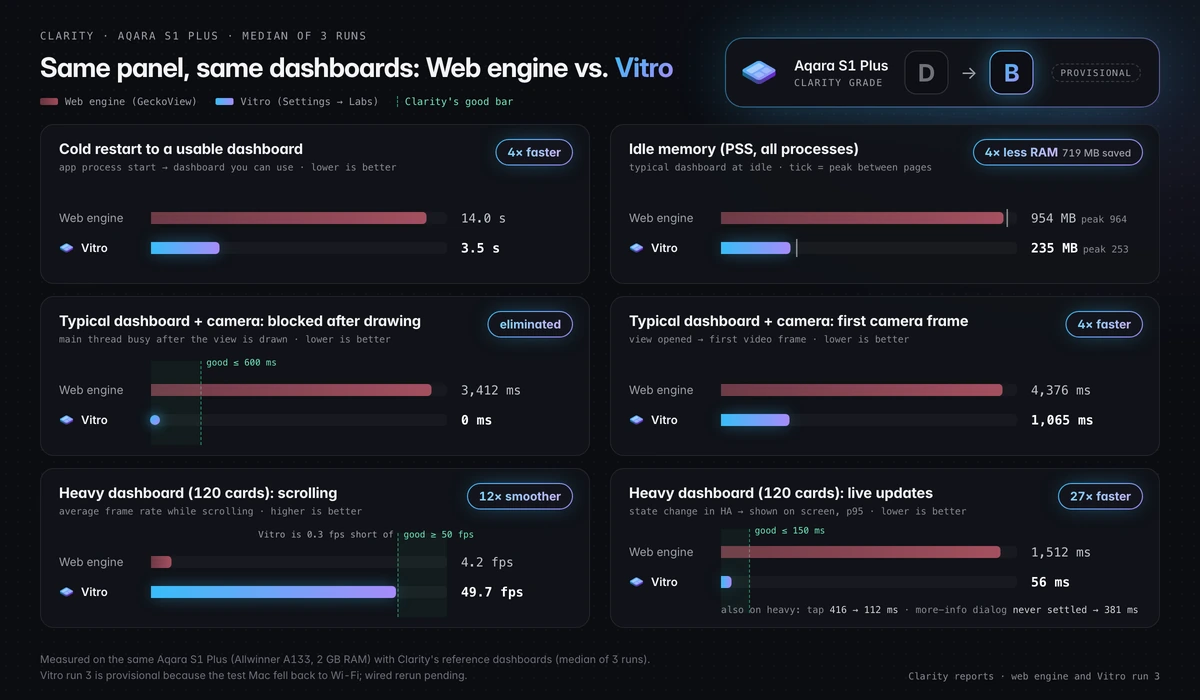
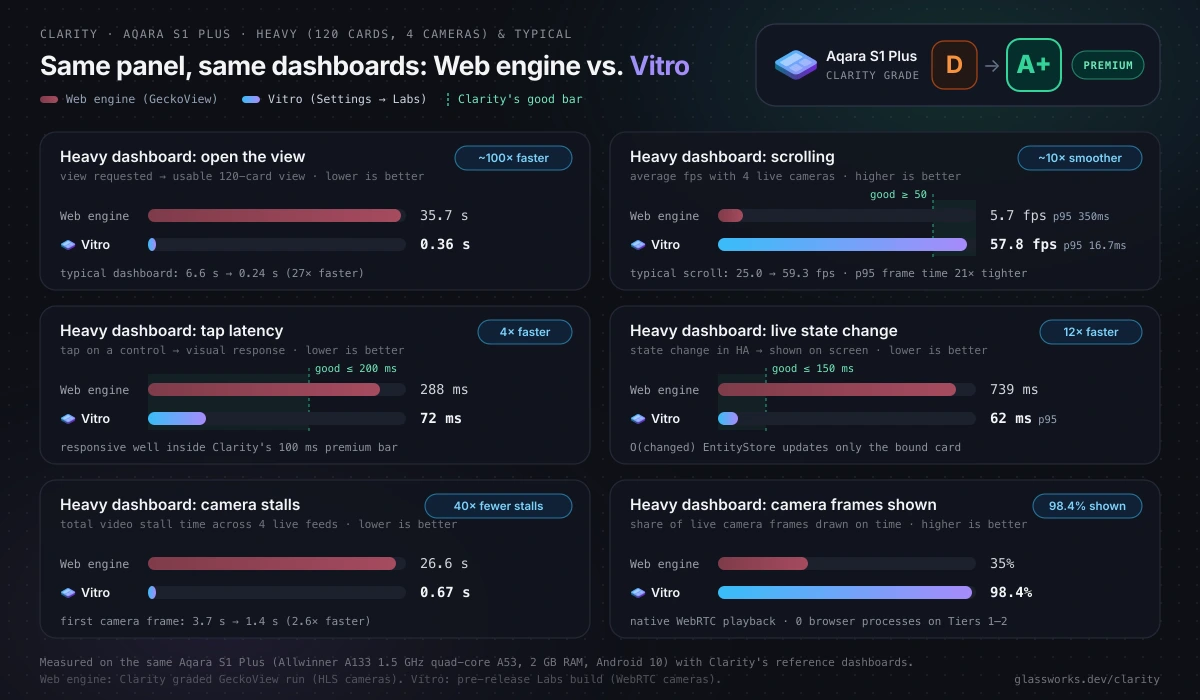
site: reframe Vitro blog draft around D to A+ premium Clarity result

diff --git a/site/blog/2026-12-10-vitro/index.md b/site/blog/2026-12-10-vitro/index.md
@@ -1,18 +1,22 @@
 ---
-title: "Introducing Vitro: why your wall panel shouldn't need a browser"
+title: "Introducing Vitro: how dropping the browser took a $140 wall switch from D to A+"
 date: 2026-12-10
 author: "Eduardo"
-summary: "Every Home Assistant wall panel app has fought the same WebView race. Vitro steps out of that race altogether—reading the Lovelace dashboard you already built and drawing it natively on Android, with zero browser process."
+summary: "When we graded our own flagship wall panel with Clarity, it scored a D. Instead of buying faster hardware, we built Vitro—a native Android renderer for the Home Assistant dashboard you already have—and maxed out our own benchmark on the exact same wall switch."
 cover_alt: "Drop the browser. Keep your dashboard. The Vitro mark and four native Home Assistant cards, above a bar showing 954 MB total app RAM (all processes) on the Aqara S1 Plus web engine against 0 browser processes with Vitro."
 draft: true
 ---
 
 <!--
-Draft. Goes out with Glassworks 1.1, the release Vitro lands in (not 1.0), once #799 is on main
-(which also adds the `/blueprints#vitro-check` compatibility checker referenced below), the wired
-S1 Clarity rerun clears the provisional tag, and the Mirror Vitro run (#796) is in. Text in
-[brackets] waits on #796 and release day. Once `exp/vitro` merges to `main`, update the GitHub
-links to relative repo links (`../../../engines/engine-vitro/README.md`, `../../../docs/vitro.md`,
+Draft. Goes out with Glassworks 1.1, the release Vitro lands in (not 1.0), once #799 and #980 are
+on main (which also adds the `/blueprints#vitro-check` compatibility checker referenced below) and
+the official post-#980 S1, Pixel Tablet, and Mirror (#796) Vitro Clarity runs finish.
+Current S1 Vitro numbers below come from run 19 on the #980 test build (WebRTC cameras) compared
+against the committed s1cam3 GeckoView run (HLS cameras); swap in the official same-branch S1
+re-grade + RAM numbers (and Mirror/tablet numbers) and regenerate performance-comparison.webp if
+any digit shifts before publishing.
+Text in [brackets] waits on release day. Once `exp/vitro` merges to `main`, update the GitHub links
+to relative repo links (`../../../engines/engine-vitro/README.md`, `../../../docs/vitro.md`,
 `../../../docs/engine-contract.md`, `../../../docs/research/vitro-island-census.md`).
 -->
 
@@ -20,28 +24,32 @@ For years, every Home Assistant wall panel app has been running the same race: w
 
 Some apps are really good at that. If you mount a recent flagship tablet on the wall and want a feature-packed WebView app, you already have great options.
 
-**We aren't fighting that race.**
+**We stepped out of that race altogether.**
 
-The moment you put Home Assistant on *real* wall hardware—a light-switch panel like the Aqara S1 Plus, an Android 6 smart mirror with under 1 GB of RAM, or the ten-year-old tablet in your drawer—wrapping a desktop browser around a modern JavaScript frontend hits a wall. When we published [Clarity](https://www.glassworks.dev/blog/clarity), our own S1 Plus scored a **D** and the lululemon Studio Mirror scored an **E**. On the S1, Glassworks on the web engine ate **954 MB of RAM across all processes** at idle and pegged the main thread just to keep a typical dashboard alive.
+When we introduced [Clarity](https://www.glassworks.dev/blog/clarity)—our open performance benchmark for Home Assistant wall panels—we graded our own flagship panel first. On the web engine, the Aqara Panel Hub S1 Plus scored a **D**. It is a 32-bit, quad-core Cortex-A53 light switch with 2 GB of RAM running Android 10, and keeping a modern JavaScript frontend alive on it ate **954 MB of RAM across all processes** at idle. Throw our 120-card, four-camera heavy dashboard at it, and the view took **35.7 seconds** just to open and scrolled at **5.7 frames per second**. The lululemon Studio Mirror, with 930 MB of RAM on Android 6, scored an **E** and ran out of memory on the heavy dashboard altogether.
 
-In **Glassworks 1.1** [link to the release], we're introducing **Vitro** under **Settings → Labs**: a native Android rendering engine for the Home Assistant dashboard you already built. No browser process. No custom Home Assistant integration. No rebuilding your dashboard in someone else's editor. On the exact same Aqara S1 Plus, it drops idle memory from **954 MB to 235 MB**, cuts cold restarts from **14 seconds to 3.5**, and moves the panel from Clarity **D** to a provisional **B**.
+That honest **D** forced the only question that mattered: was the hardware really too slow to run a smart home dashboard, or was a desktop browser engine just the wrong thing to put on a light switch?
+
+In **Glassworks 1.1** [link to the release], we are introducing **Vitro** under **Settings → Labs**: a native Android rendering engine for the Home Assistant dashboard you already built. No browser process, no custom Home Assistant integration, and no rebuilding your screens in someone else's editor.
+
+On the exact same Aqara S1 Plus and the exact same benchmark, Vitro did not just lift the panel a letter grade. It maxed out Clarity's grading scale—moving the S1 Plus from **D** to **A+ premium**, opening that 120-card heavy view in **0.36 seconds** (~100× faster) and scrolling it at **57.8 frames per second** with four live WebRTC cameras running.
 
 ## No more choosing between fast and yours
 
 Until now, putting Home Assistant on a wall meant picking between two compromises:
 
-1. **Browser / WebView kiosk apps:** Full compatibility with your Lovelace dashboards, at the cost of dragging a 500–950 MB browser engine onto a light switch—slow cold starts, janky scrolls, memory pressure, and broken stock WebViews on older Android hardware.
-2. **"Native" panel apps and microcontroller screens:** Fast and lean, but they throw away your Home Assistant dashboards and force you to rebuild every screen inside their own editor or custom YAML format.
+1. **Browser and WebView kiosk apps:** Full compatibility with your Lovelace dashboards, at the cost of dragging a 500–950 MB browser engine onto a light switch—slow cold starts, janky scrolls, memory pressure, and outdated system WebViews on older Android hardware.
+2. **"Native" panel apps and microcontroller screens:** Fast and lean, at the cost of throwing away your Home Assistant dashboards and rebuilding every screen inside a separate editor or custom YAML format.
 
-Vitro doesn't make you choose. It connects straight to Home Assistant's WebSocket API in Kotlin, reads the Lovelace dashboard you already have—layouts, themes, fonts, templates, and history—and draws it natively with Android views and Canvas.
+Vitro removes that tradeoff. It connects straight to Home Assistant's WebSocket API in Kotlin, reads the Lovelace dashboard you already have—layouts, themes, custom fonts, templates, and history—and draws it natively with Android views and Canvas.
 
-Your dashboard stays in Home Assistant. Nothing gets installed there ([the principles](../../../docs/principles.md)). The only thing that disappears is the browser sitting between Home Assistant and the glass.
+Your dashboard stays in Home Assistant, and nothing gets installed there ([the principles](../../../docs/principles.md)). The only layer that disappears is the browser sitting between Home Assistant and the glass.
 
-[Your own aha moment in 2–3 lines: e.g., watching the Mirror come alive on Android 6, or seeing your real dashboard render identically with zero GeckoView processes in `ps`.]
+[Your own aha moment in 2–3 lines: e.g., watching the S1 Plus jump from a 5.7 fps slide show to locked 58 fps with four live cameras, or seeing your real dashboard render identically with zero GeckoView processes in `ps`.]
 
 ## How Vitro works: three automatic tiers
 
-Pulling this off on real dashboards means accepting reality: Home Assistant's ecosystem is huge, and plenty of dashboards mix core cards, HACS favorites, and one or two exotic custom cards. Vitro handles that automatically with three tiers:
+Pulling this off on real dashboards means accepting reality: Home Assistant's ecosystem is huge, and plenty of setups mix core cards, HACS favorites, and one or two exotic custom cards. Vitro handles that automatically with three tiers:
 
 ![Diagram: five cards from a Lovelace dashboard pass through Vitro's Kotlin data plane (view-scoped subscribe_entities, O(changed) EntityStore, themes and fonts, tier routing) to Tier 1 native core (tile, camera), Tier 2 native HACS (Mushroom, button-card) or a Tier 3 GeckoView micro-island (apexcharts-card)](./architecture.webp)
 
@@ -49,39 +57,39 @@ Pulling this off on real dashboards means accepting reality: Home Assistant's ec
 |---|---|---|
 | **Tier 1: Native core** | Layouts (`sections`, `masonry`, `panel`, `grid`, stacks, `visibility`), **32 built-in Home Assistant cards**, native More-Info dialogs, native **WebRTC / HLS / MJPEG** cameras, 14 inline tile features, themes, custom fonts, and all **7,447 MDI icons** | Native Android views and Canvas: zero JavaScript and zero browser process |
 | **Tier 2: Native HACS fast-paths** | **30 popular HACS cards**: the entire Mushroom suite (16 cards), `custom:button-card` (standard configs without JS templates), Bubble Card, `mini-graph-card`, `mini-media-player`, `clock-weather-card`, `modern-circular-gauge`, `bar-card`, `weather-card`, `swipe-card`, `auto-entities`, `stack-in-card`, `vertical-stack-in-card`, and `layout-card` | Native Kotlin renderers, using Home Assistant's own `render_template` subscriptions for Jinja2 |
-| **Tier 3: Micro-Islands** | Any other `custom:*` card, JS-templated custom cards, or any custom card using CSS/options Vitro can't match faithfully | A tiny isolated GeckoView micro-island served from loopback (`127.0.0.1`) with a `hass` proxy shim, shared storage, and your resolved theme variables |
+| **Tier 3: Micro-Islands** | Any other `custom:*` card, JS-templated custom cards, or any custom card using CSS or options Vitro can't match faithfully | A tiny isolated GeckoView micro-island served from loopback (`127.0.0.1`) with a `hass` proxy shim, shared storage, and your resolved theme variables |
 
-Two architectural decisions make this work in the real world:
+Two architectural decisions make this hold up on real panels:
 
-- **Zero browser until a card actually needs one.** If your dashboard stays in Tier 1 and Tier 2, **GeckoView never even starts**. No tab process, no browser GPU process, no JavaScript runtime eating your panel's RAM.
-- **Zero dependence on Android's system WebView.** Even when a card drops into a Tier 3 island, Vitro never touches `android.webkit.WebView` (which is dead or stuck on Chromium 74 on devices like the S1 Plus and Mirror). Only that single card pays for a micro-island, and because Vitro passes your resolved theme variables into it, it blends seamlessly into the native cards around it.
+- **Zero browser until a card actually needs one.** If your dashboard stays in Tier 1 and Tier 2, **GeckoView never even starts**. There is no tab process, no browser GPU process, and no JavaScript runtime consuming your panel's RAM.
+- **Zero dependence on Android's system WebView.** Even when a card drops into a Tier 3 island, Vitro never touches `android.webkit.WebView`, which is missing or frozen on ancient Chromium builds on hardware like the S1 Plus and the Mirror. Only that single card pays for a micro-island, and because Vitro passes your resolved theme variables into it, it blends seamlessly into the native cards around it.
 
-And the small interactions stay native too. Tapping or holding a tile opens native More-Info dialogs modeled after Home Assistant—an HSV color wheel and Kelvin picker for lights, a circular thermostat dial, a cover position slider, a 24-hour stepped sensor graph, live camera playback (up to four WebRTC feeds at once), and an alarm PIN pad. Themes resolve recursive `var(--...)` chains, gradients, and shadows natively, and custom `@font-face` / Google Fonts stylesheets from your Lovelace resources are fetched and cached right on the panel.
+The smaller interactions stay native too. Tapping or holding a tile opens native More-Info dialogs modeled after Home Assistant: an HSV color wheel and Kelvin picker for lights, a circular thermostat dial, a cover position slider, a 24-hour stepped sensor graph, live camera playback (up to four WebRTC feeds at once), and an alarm PIN pad. Themes resolve recursive `var(--...)` chains, gradients, and shadows natively, and custom `@font-face` and Google Fonts stylesheets from your Lovelace resources are fetched and cached right on the panel.
 
 ## "Home Assistant's own render is the spec"
 
-The reason nobody has pulled off a general native Lovelace renderer before isn't that drawing a toggle button is hard. It's that **85% visual parity feels broken**. If padding is off, a Markdown table collapses, or your `card_mod` sheet behaves differently than in Chrome, you immediately stop trusting it.
+The reason nobody has pulled off a general native Lovelace renderer before isn't that drawing a toggle button is hard. It's that **85% visual parity feels broken**. If padding is off, a Markdown table collapses, or a `card_mod` sheet behaves differently than it does in Chrome, you stop trusting the panel immediately.
 
 So we set one non-negotiable rule: **Home Assistant's own browser render is the spec.**
 
-- If Home Assistant draws a card, graph, font, or supported `card_mod` sheet a certain way, Vitro matches it closely enough that you can't tell them apart at a glance.
-- If Home Assistant drops something—like inline `style=` attributes in Markdown—Vitro drops it too, so you never build a dashboard that only looks right in Vitro.
-- If a custom card uses something Vitro can't draw faithfully, Vitro **refuses to fake it** and routes that card to a Tier 3 island instead.
+- If Home Assistant draws a card, graph, font, or supported `card_mod` rule a certain way, Vitro matches it closely enough that you can't tell them apart at a glance.
+- If Home Assistant strips something—like inline `style=` attributes in Markdown—Vitro strips it too, so you never build a dashboard that only looks right on one engine.
+- If a custom card uses something Vitro can't draw faithfully, Vitro refuses to fake it and routes that card to a Tier 3 micro-island instead.
 
-We don't eyeball that bar. Every pull request runs an automated **visual parity harness** (`tools/vitro-parity`) in CI: **135 card and layout cases** rendered twice—once in headless Chromium running Home Assistant's real frontend, and once in Vitro at the exact screen sizes and densities of the S1 Plus, the Mirror, and a tablet. It diffs every case on pixels, card bounds, and font sizes. If a card drifts past its threshold, CI fails.
+We don't eyeball that bar. Every pull request runs an automated **visual parity harness** (`tools/vitro-parity`) in CI: **135 card and layout cases** rendered twice—once in headless Chromium running Home Assistant's real frontend, and once in Vitro at the exact screen sizes and densities of the S1 Plus, the Mirror, and a tablet. It diffs every case on pixels, card bounds, and font sizes, and fails CI whenever a card drifts.
 
 <!-- [Add side-by-side screenshot here: Home Assistant in Chrome (left) vs. Vitro on the lululemon Mirror or Aqara S1 Plus (right). Caption: "Try telling which side is Chrome and which side is native Android."] -->
 
-## What changed on real hardware
+## From D to A+ premium on the exact same wall switch
 
-Owning the rendering pipeline also let us fix three things that punish low-power panels in a browser:
+Dropping GeckoView got us most of the way there, because it wiped out the browser's RAM overhead and JavaScript main-thread stalls. Reaching **A+ premium** on a 1.5 GHz quad-core Cortex-A53 with 120 cards and four live cameras took owning the whole rendering pipeline end to end:
 
-- **View-scoped subscriptions:** Vitro scans the active view and subscribes only to the entities actually on screen.
-- **O(changed) updates:** When one sensor ticks, `EntityStore` updates only the card bound to it—never cloning `hass.states` across a whole DOM tree.
-- **Keep-alive view cache:** Switching tabs flips visibility on pre-built native views instead of tearing down and rebuilding cards from scratch.
+- **View-scoped subscriptions and `O(changed)` updates:** Vitro subscribes only to the entities on the active view, and when one sensor ticks, `EntityStore` updates only the card bound to it instead of propagating a full state map through a DOM tree.
+- **Keep-alive view cache:** Switching dashboard tabs flips visibility on pre-built native views rather than tearing down and rebuilding cards from scratch.
+- **Viewport culling on long dashboards:** On a 120-card view spanning 17 screens, Android's `RenderThread` used to spend most of each frame walking render nodes for cards far off screen. Vitro skips off-screen cards in each column's draw pass while keeping layout heights and camera surfaces intact, catching up any queued state updates before a card scrolls back into view.
+- **Corner-only card clipping and local relayouts:** Rounded cards skip expensive hardware outline clipping when their content never reaches the rounded corners, and live text updates on entity, sensor, and glance cards lay out only themselves instead of invalidating the whole dashboard.
 
-Clarity now grades Vitro under the **exact same rubric and reference dashboards** as the web
-engine—same fake Home Assistant, same taps, swipes, live updates, cameras, and More-Info dialogs.
+Clarity grades Vitro under the **exact same rubric and reference dashboards** as the web engine—same local mock Home Assistant, same taps, swipes, live state stream, cameras, and More-Info dialogs.
 
 <!--
 [Embed the S1 side-by-side video here once video support lands in site/src/lib/docs/render.ts
@@ -92,28 +100,32 @@ Part 3–4 theme switch & native cards, count-up summary. Refresh on final 1.1 b
 and mini-graph-card can also be included in Part 4.]
 -->
 
-![Clarity performance comparison on the Aqara S1 Plus: Web engine (GeckoView, grade D) versus Vitro (Labs, grade B provisional) across restart, memory, blocking, camera first frame, heavy scrolling, and live updates](./performance-comparison.webp)
+![Clarity performance comparison on the Aqara S1 Plus: Web engine (GeckoView, grade D) versus Vitro (Labs, grade A+ premium) across heavy view open, scrolling, tap latency, live updates, camera stalls, and camera frames shown](./performance-comparison.webp)
 
-Here is what changed on the **Aqara S1 Plus** (Allwinner A133, 2 GB RAM; median of 3 runs; Vitro
-run 3 is provisional only because the test Mac fell back to Wi-Fi—wired rerun and Mirror numbers
-pending before 1.1 publishes):
+Here is what changed on the **Aqara S1 Plus** (Allwinner A133, 2 GB RAM, Android 10) running Clarity's heavy (120 cards, 4 live cameras) and typical reference dashboards:
 
-| Metric (Aqara S1 Plus) | Web engine (GeckoView) | Vitro (Labs) | Change |
+| Metric (Aqara S1 Plus) | Web engine (GeckoView) | Vitro (Labs) | Improvement |
 |---|---|---|---|
-| **Clarity grade** | **D** *(light dashboards)* | **B** *(provisional — typical + camera)* | **+2 letter grades** |
-| **Cold restart to dashboard** | 14.0 s | **3.5 s** | **4× faster** |
-| **Idle RAM (all processes, PSS)** | 954 MB *(peak 964 MB)* | **235 MB** *(peak 253 MB)* | **4× less RAM (719 MB saved)** |
-| **Typical + camera: blocked after drawing** | 3.4 s | **0 ms** | **Eliminated** |
-| **Typical + camera: camera first frame** | 4.4 s | **1.1 s** | **4× faster** |
-| **Heavy (120 cards): scrolling** | 4.2 fps | **49.7 fps** | **12× smoother** |
-| **Heavy (120 cards): live update (p95)** | 1,512 ms | **56 ms** | **27× faster** |
-| **Heavy (120 cards): tap latency (INP)** | 416 ms | **112 ms** | **3.7× faster** |
-| **Heavy (120 cards): More-Info dialog** | Failed (3 of 3 runs) | **381 ms** | **Instant vs. broken** |
+| **Clarity grade** | **D** *(light dashboards)* | **A+ premium** *(all four tiers)* | **Top possible grade** |
+| **Heavy: open the view** | 35.7 s | **0.36 s** | **~100× faster** |
+| **Heavy: scrolling** | 5.7 fps *(p95 350 ms)* | **57.8 fps** *(p95 16.7 ms)* | **~10× smoother** |
+| **Heavy: tap latency** | 288 ms | **72 ms** | **4× faster** |
+| **Heavy: live state change** | 739 ms | **62 ms** *(p95)* | **12× faster** |
+| **Heavy: camera frames shown** | 35% | **98.4%** | **Near-complete playback** |
+| **Heavy: camera stalls** | 26.6 s | **0.67 s** | **40× fewer stalls** |
+| **Heavy: first camera frame** | 3.7 s | **1.4 s** | **2.6× faster** |
+| **Typical: open the view** | 6.6 s | **0.24 s** | **27× faster** |
+| **Typical: scrolling** | 25.0 fps | **59.3 fps** | **2.4× smoother** |
 
-On the exact same wall switch, dropping the browser cut idle memory by **719 MB**, made cold
-restarts **4× faster**, turned a 4.2 fps slide show on a 120-card dashboard into **49.7 fps**
-(0.3 fps shy of Clarity's 50 fps bar), and dropped live-update latency from **1.5 seconds to 56 milliseconds**.
-*[Add lululemon Mirror before/after numbers and one-island cost from #796 once the Mirror run finishes.]*
+Look at that scroll number again: **57.8 fps with a 16.7 ms p95 frame time** on the 120-card, four-camera heavy benchmark. At 60 Hz, one display frame is 16.7 milliseconds. On a light switch that used to take 35.7 seconds just to open that view and stall its cameras for 26.6 seconds, Vitro now opens it in 360 milliseconds and keeps 98.4% of live camera frames flowing on time—while cutting app memory roughly 4× compared to the web engine's 954 MB footprint.
+
+*[Add final official post-merge S1 RAM/restart numbers, Pixel Tablet comparison, and lululemon Mirror before/after numbers once the official re-grades finish.]*
+
+### Saturating the grade, not the measurements
+
+Because **A+ premium** is Clarity's ceiling, Vitro on the Aqara S1 Plus literally saturated the letter grade we designed to keep ourselves honest.
+
+That is also why Clarity publishes raw measurements alongside the letter. Even at **A+ premium**, the report still tells us exactly where the S1 Plus has room to get even faster: the main thread stays busy for **332 ms** right after opening the 120-card heavy view (below the 600 ms poor cutoff, but still flagged as needs-improvement), a full cold restart takes **3.9 seconds** to reach a usable dashboard (down from 14.0 seconds on GeckoView), and one of the four simultaneous cameras took 4.2 seconds for its first frame. Clarity doesn't let an A+ hide real bottlenecks—and it gives us clear targets for what comes next.
 
 ## Built on data, not guesswork
 
@@ -123,24 +135,24 @@ Even before our latest wave of HACS cards, **~77% of cards** in those community 
 
 And for the long tail of custom cards, two things are on the way:
 
-- In **Glassworks 1.2**, **[third-party Vitro cards](https://github.com/GlassworksHQ/glassworks/issues/940)** will let HACS authors ship native Vitro support right inside their existing cards—no Android tooling required.
-- For inherently web content like `map`, `iframe`, and `energy-*` (plus custom cards without a native driver), Vitro sits cleanly behind Glassworks' [`Engine` contract](https://github.com/GlassworksHQ/glassworks/blob/main/docs/engine-contract.md)—so we can swap in a lighter island engine behind that seam later without touching a single native card or pane.
+- In **Glassworks 1.2**, **[third-party Vitro cards](https://github.com/GlassworksHQ/glassworks/issues/940)** will let HACS authors ship native Vitro support right inside their existing cards, with no Android tooling required.
+- For inherently web content like `map`, `iframe`, and `energy-*` (plus custom cards without a native driver), Vitro sits cleanly behind Glassworks' [`Engine` contract](https://github.com/GlassworksHQ/glassworks/blob/main/docs/engine-contract.md), so we can swap in a lighter island engine behind that seam later without touching a single native card or pane.
 
 ## Where this puts Glassworks
 
 Put the three pieces together:
 
-- **[Kiln](https://kiln.glassworks.dev)** unlocks locked wall hardware from a browser tab, with backups and a way back.
-- **Glassworks' MPL-2.0 open core** turns that hardware into one native ESPHome device—local Assist voice, Sendspin audio, Zigbee/Thread radios, and updates inside Home Assistant.
-- **Vitro** removes the browser itself, so a light switch, a smart mirror, or a tablet from 2016 feels like it was built to run Home Assistant from day one.
+- **[Kiln](https://kiln.glassworks.dev)** unlocks locked wall hardware from a browser tab, with verified backups and a way back to stock.
+- **Glassworks' MPL-2.0 open core** turns that hardware into one native ESPHome device—local Assist voice, Sendspin audio, Zigbee and Thread radios, and updates right inside Home Assistant.
+- **Vitro** removes the browser itself, turning a D-grade light switch into an A+ Home Assistant panel without changing a line of your dashboard.
 
-When a 32-bit wall switch can run a 120-card Home Assistant dashboard at 50 fps in 235 MB of RAM, the question stops being *"which kiosk app has the most WebView settings?"*—it becomes *"why is my wall panel still running a desktop browser at all?"*
+When a $140 32-bit wall switch can open a 120-card Home Assistant dashboard in 0.36 seconds and scroll it at 58 fps with four live cameras, the question stops being *"which kiosk app has the most WebView tweaks?"*—it becomes *"why is my wall panel running a desktop browser at all?"*
 
 ## Try it today—zero risk
 
 You don't even have to touch a panel to see how your dashboard fares:
 
-1. **Test your dashboard right in your browser.** Paste your Lovelace YAML or JSON into the **[Vitro compatibility checker](https://www.glassworks.dev/blueprints#vitro-check)** *[lands with #799]* on `glassworks.dev/blueprints`. It runs 100% client-side—nothing leaves your machine—and tells you card by card what renders natively and what triggers an island. (There's also a copyable prompt right above it if you want to convert a custom JS card to pure Vitro-native YAML.)
+1. **Test your dashboard right in your browser.** Paste your Lovelace YAML or JSON into the **[Vitro compatibility checker](https://www.glassworks.dev/blueprints#vitro-check)** on `glassworks.dev/blueprints`. It runs 100% client-side—nothing leaves your machine—and tells you card by card what renders natively and what triggers an island. There is also a copyable prompt right above it if you want to convert a custom JS card to pure Vitro-native YAML.
 2. **Flip the switch in Labs.** On any Glassworks 1.1 panel (or from its Manage page), open **Settings → Labs** and enable **Vitro renderer**. The app restarts into Vitro. It's experimental and off by default—turn it off anytime and you're immediately back on GeckoView, with nothing touched in Home Assistant.
 
 Vitro gets better with every real dashboard we throw at it. Try yours, send us any card that looks even slightly off compared to Home Assistant, and come talk about it in [GitHub Discussions](https://github.com/GlassworksHQ/glassworks/discussions) or on [Discord](https://discord.gg/hHpf77fBMj).
